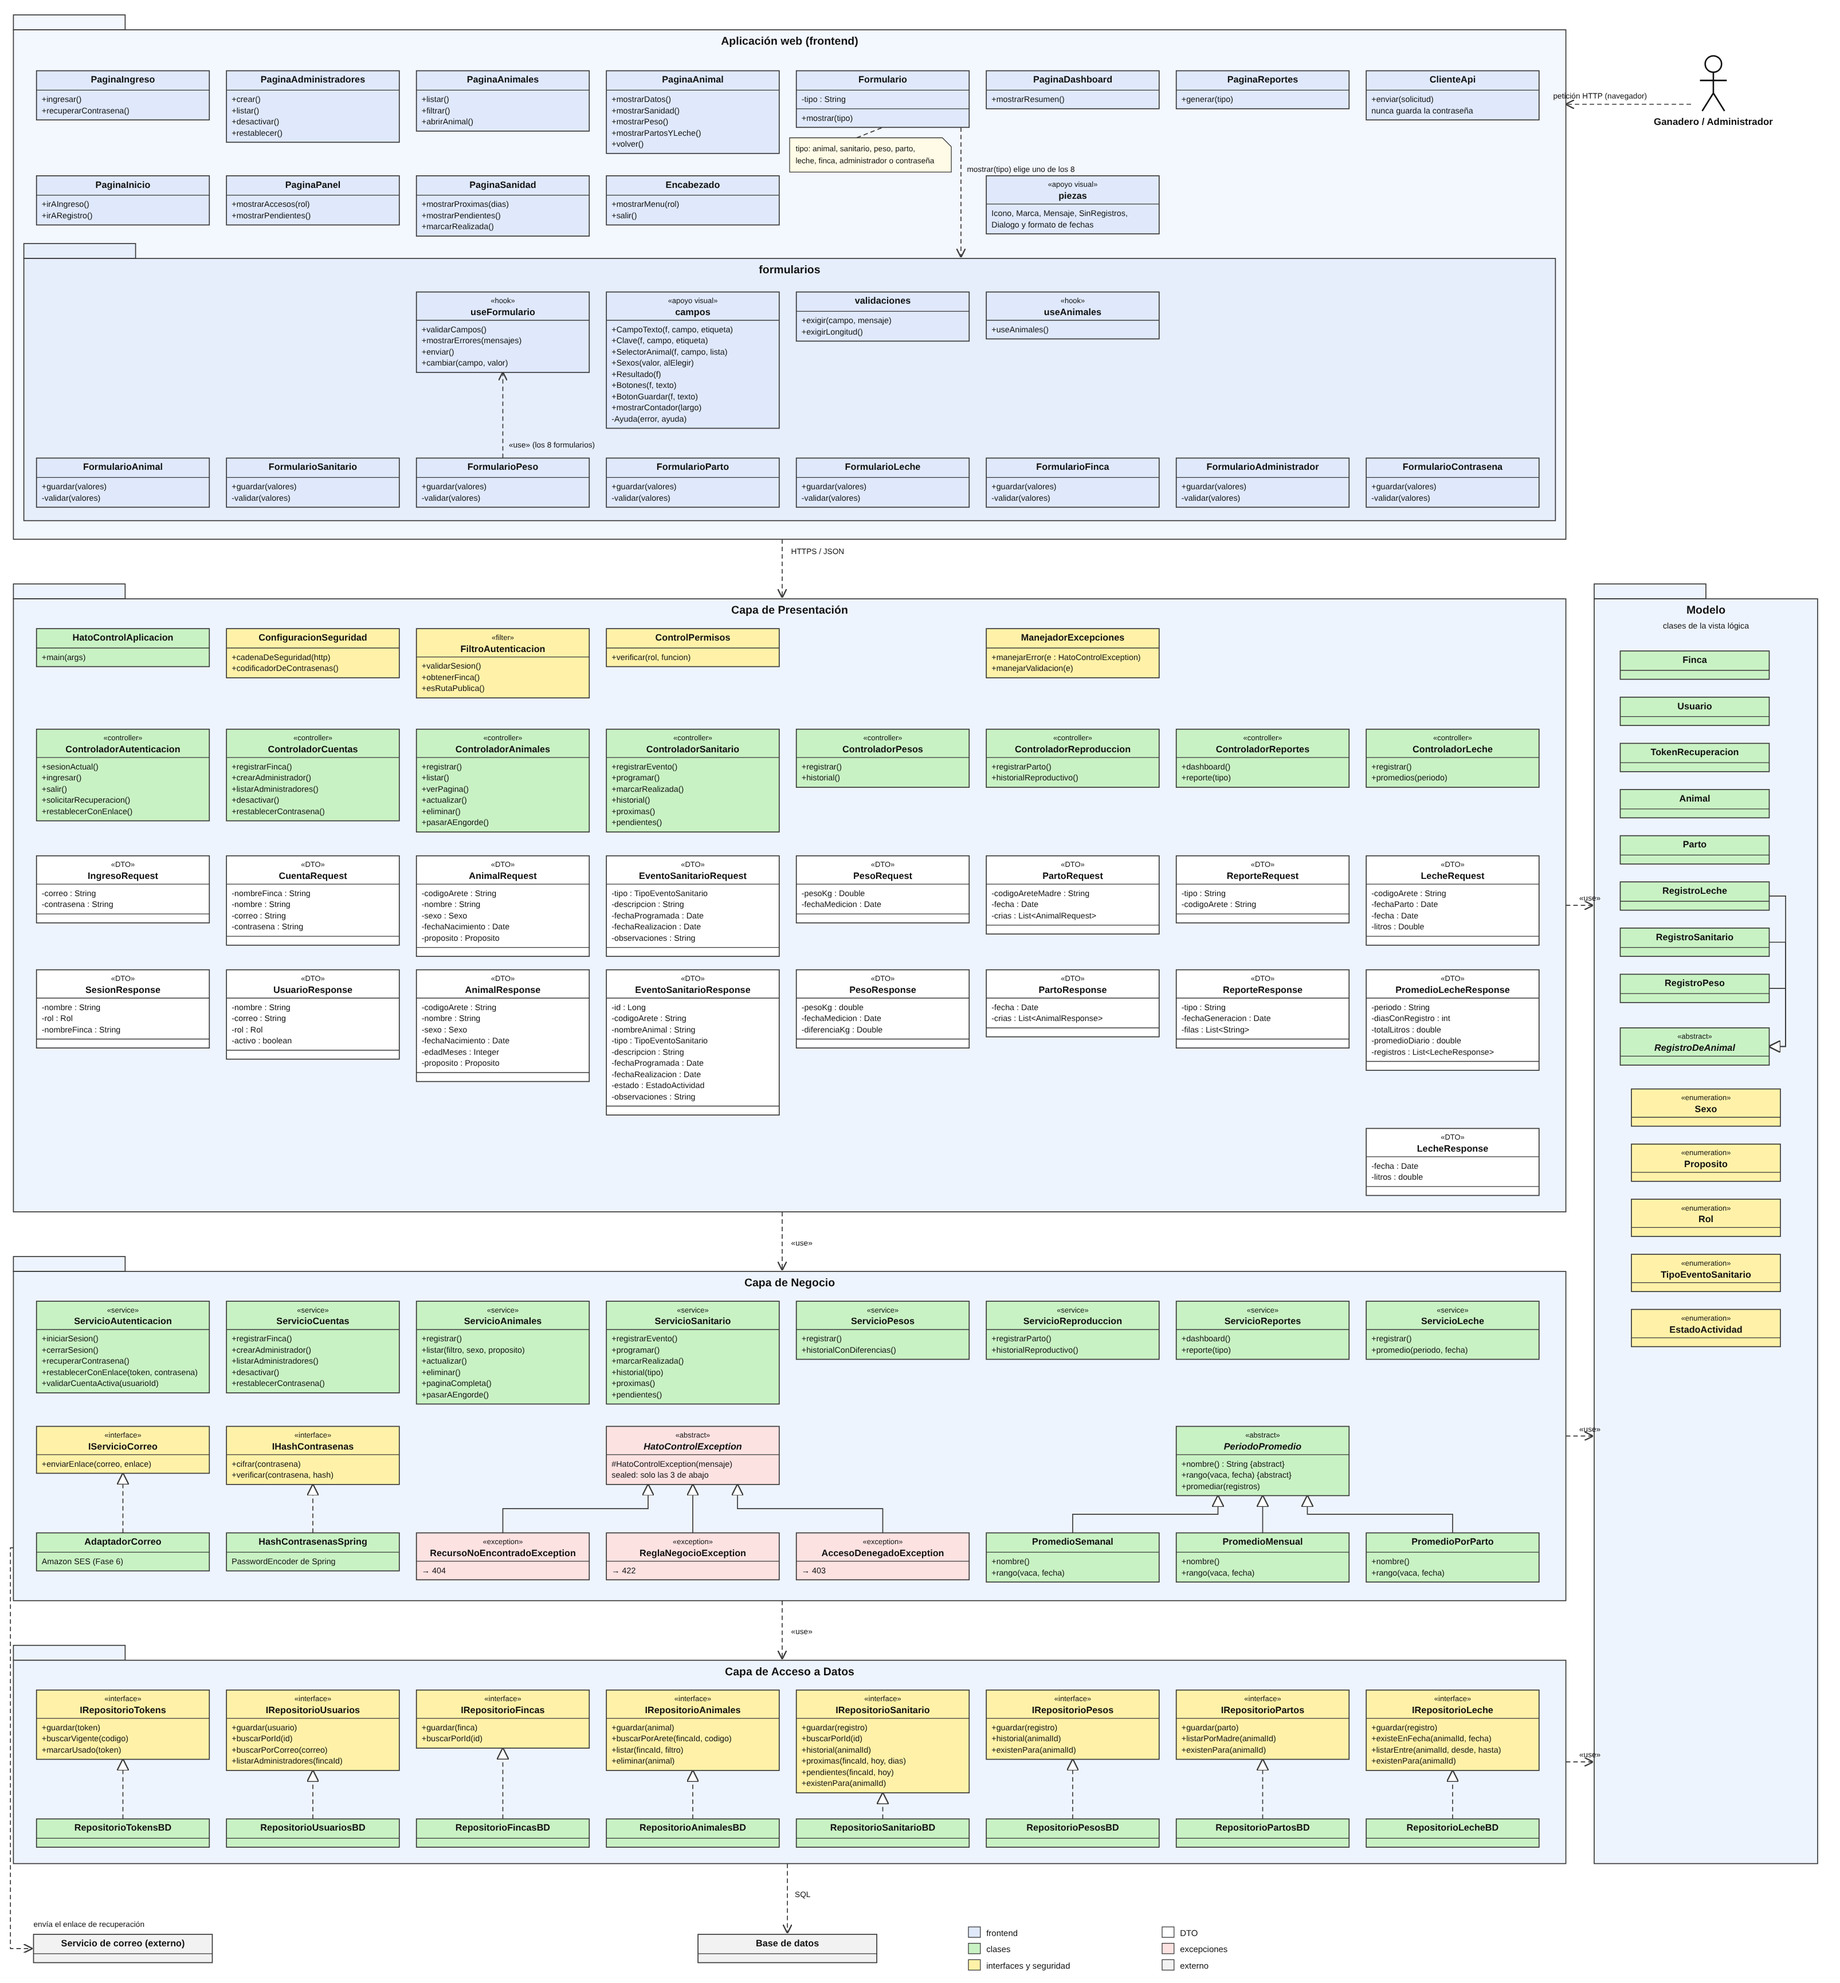
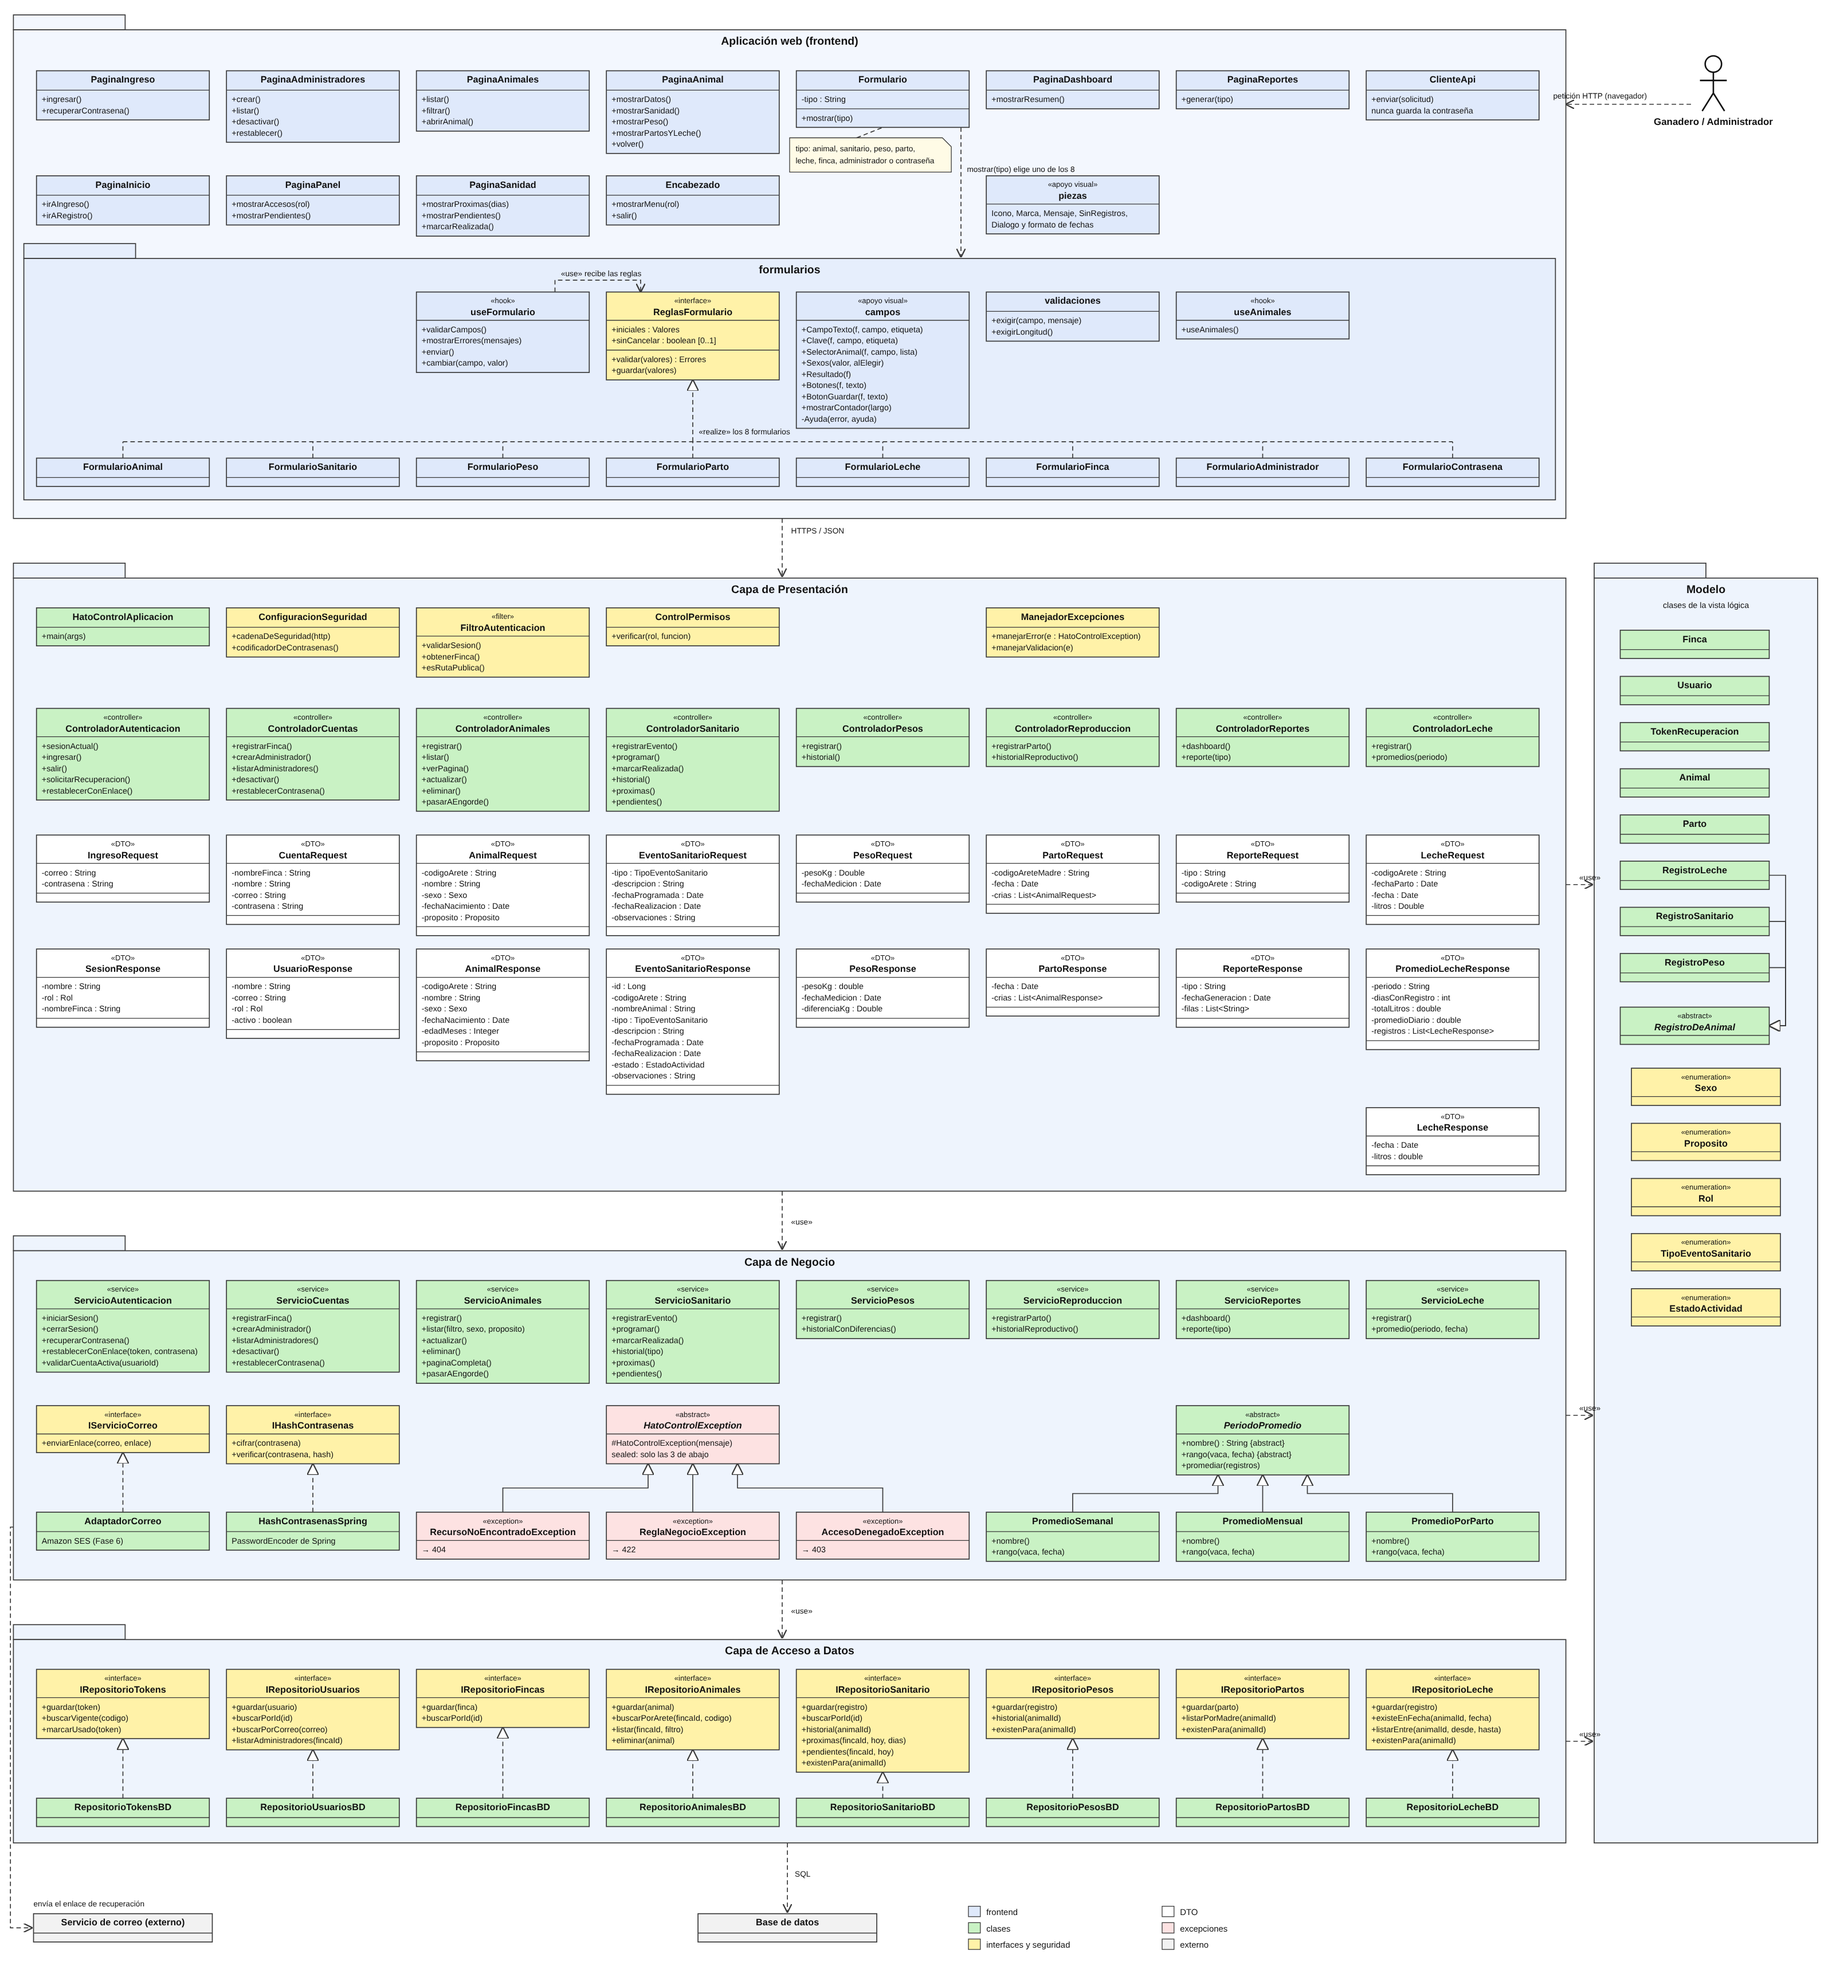
Vista de desarrollo v9: los 8 formularios realizan ReglasFormulario

diff --git a/docs/diagramas-visual-paradigm.md b/docs/diagramas-visual-paradigm.md
@@ -43,9 +43,10 @@ Comparé los 5 diagramas de `Diagramas diseño/DiagramasHato` con el código de 
   - `«apoyo visual» campos`, con una operación por pieza: `+CampoTexto(f, campo, etiqueta)`, `+Clave(f, campo, etiqueta)`, `+SelectorAnimal(f, campo, lista)`, `+Sexos(valor, alElegir)`, `+Resultado(f)`, `+Botones(f, texto)`, `+BotonGuardar(f, texto)`, `+mostrarContador(largo)` y `-Ayuda(error, ayuda)` (privada). En Visual Paradigm la clase solo acepta atributos y operaciones, no texto libre.
   - `validaciones`: `+exigir(campo, mensaje)`, `+exigirLongitud()`.
   - `«hook» useAnimales`: `+useAnimales()`.
-  - 8 componentes, cada uno con `+guardar(valores)` y `-validar(valores)`: `FormularioAnimal`, `FormularioSanitario`, `FormularioPeso`, `FormularioParto`, `FormularioLeche`, `FormularioFinca`, `FormularioAdministrador` y `FormularioContrasena`.
+  - `«interface» ReglasFormulario`: atributos `+iniciales : Valores` y `+sinCancelar : boolean [0..1]`; operaciones `+validar(valores) : Errores` y `+guardar(valores)`. Es el contrato que cumple cada formulario (está en `useFormulario.ts`).
+  - 8 clases **solo con el nombre**, sin repetir operaciones: `FormularioAnimal`, `FormularioSanitario`, `FormularioPeso`, `FormularioParto`, `FormularioLeche`, `FormularioFinca`, `FormularioAdministrador` y `FormularioContrasena`. Las 8 **realizan** `ReglasFormulario` (línea punteada con triángulo vacío; pueden juntarse en una sola flecha).
   - Dependencia `Formulario` → paquete `formularios`, con la etiqueta «mostrar(tipo) elige uno de los 8».
-  - Dependencia «use» de los 8 formularios hacia `useFormulario`.
+  - Dependencia «use» de `useFormulario` hacia `ReglasFormulario`: el hook recibe las reglas de cada formulario.
 
 **Capa de presentación**
 
